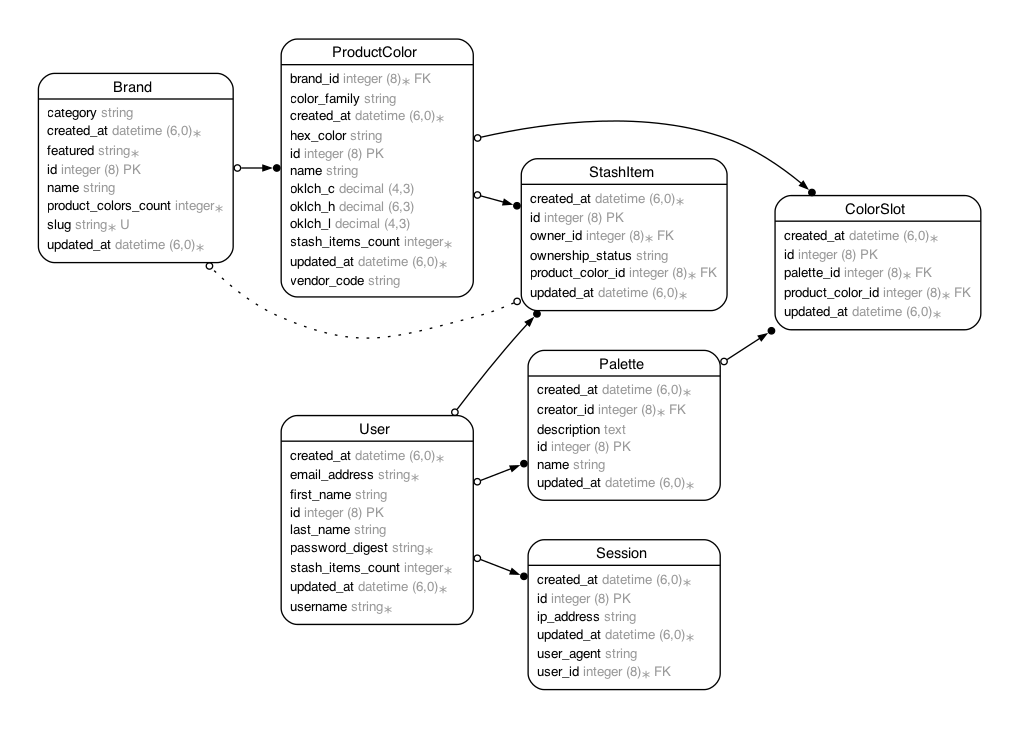
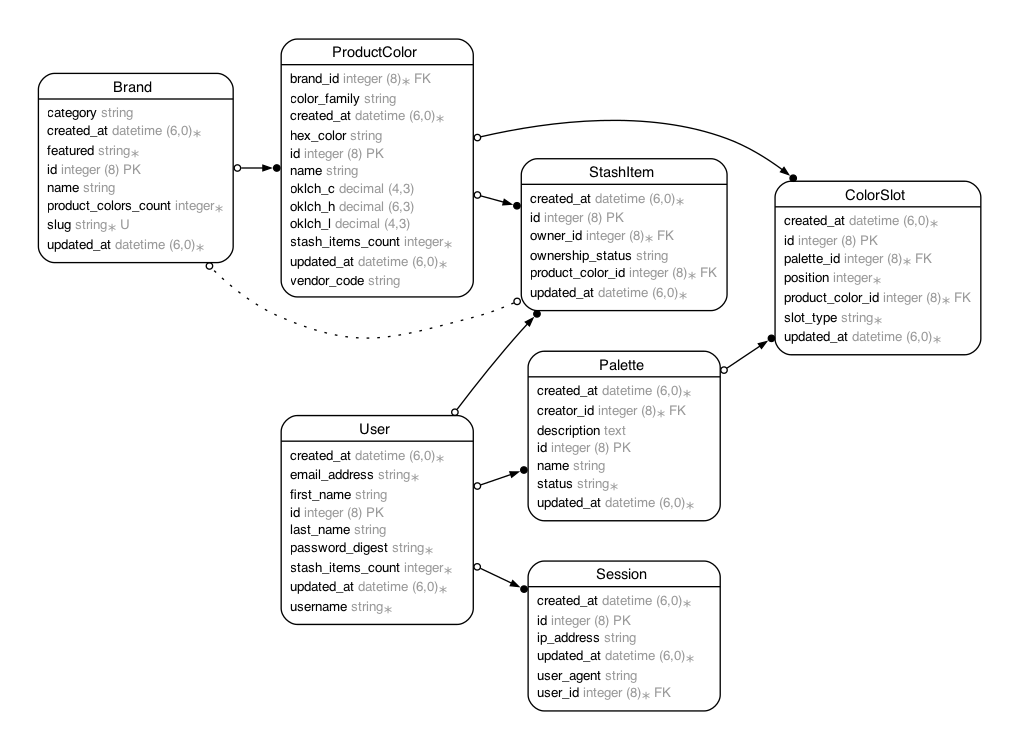
add status column to palettes and slot type and position columns to color_slots

diff --git a/app/models/color_slot.rb b/app/models/color_slot.rb
@@ -3,6 +3,8 @@
 # Table name: color_slots
 #
 #  id               :bigint           not null, primary key
+#  position         :integer          default(0), not null
+#  slot_type        :string           default("main"), not null
 #  created_at       :datetime         not null
 #  updated_at       :datetime         not null
 #  palette_id       :bigint           not null
@@ -10,8 +12,10 @@
 #
 # Indexes
 #
-#  index_color_slots_on_palette_id        (palette_id)
-#  index_color_slots_on_product_color_id  (product_color_id)
+#  index_color_slots_on_palette_id                             (palette_id)
+#  index_color_slots_on_palette_id_and_product_color_id        (palette_id,product_color_id) UNIQUE
+#  index_color_slots_on_palette_id_and_slot_type_and_position  (palette_id,slot_type,position)
+#  index_color_slots_on_product_color_id                       (product_color_id)
 #
 # Foreign Keys
 #
@@ -21,4 +25,56 @@
 class ColorSlot < ApplicationRecord
   belongs_to :palette
   belongs_to :product_color
+
+  SLOT_TYPES = %w[background main secondary accent].freeze
+
+  SLOT_CATEGORIES = {
+    "background" => "fabric",
+    "main" => "thread",
+    "secondary" => "thread",
+    "accent" => "thread"
+  }.freeze
+
+  validates :slot_type, inclusion: { in: SLOT_TYPES }
+  validates :position, presence: true
+  validates :product_color_id, uniqueness: { scope: :palette_id, message: "is already in this palette" }
+  validate :slot_type_limit_not_exceeded, on: :create
+  validate :product_color_matches_slot_category
+
+  scope :by_type, ->(type) { where(slot_type: type).order(:position) }
+  scope :background, -> { by_type("background") }
+  scope :main, -> { by_type("main") }
+  scope :secondary, -> { by_type("secondary") }
+  scope :accent, -> { by_type("accent") }
+
+  before_create :set_position
+
+  private
+
+  def set_position
+    max_position = palette.color_slots.where(slot_type: slot_type).maximum(:position) || -1
+    self.position = max_position + 1
+  end
+
+  def slot_type_limit_not_exceeded
+    return unless palette && slot_type
+
+    max = Palette::SLOT_LIMITS[slot_type][:max]
+    current_count = palette.slot_count_for(slot_type)
+
+    if current_count >= max
+      errors.add(:base, "##{slot_type.capitalize} section is full (maximum #{max})")
+    end
+  end
+
+  def product_color_matches_slot_category
+    return unless product_color && slot_type
+
+    expected_category = SLOT_CATEGORIES[slot_type]
+    actual_category = product_color.brand&.category
+
+    if actual_category != expected_category
+      errors.add(:product_color, "must be a #{expected_category} for the #{slot_type} slot")
+    end
+  end
 end

diff --git a/app/models/palette.rb b/app/models/palette.rb
@@ -5,9 +5,14 @@
 #  id          :bigint           not null, primary key
 #  description :text
 #  name        :string
+#  status      :string           default("draft"), not null
 #  created_at  :datetime         not null
 #  updated_at  :datetime         not null
 #  creator_id  :bigint           not null
+#
+# Indexes
+#
+#  index_palettes_on_status  (status)
 #
 # Foreign Keys
 #
@@ -15,4 +20,84 @@
 #
 class Palette < ApplicationRecord
   belongs_to :creator, class_name: "User"
+  has_many :color_slots, dependent: :destroy
+  has_many :product_colors, through: :color_slots
+
+  enum status: { draft: "draft", published: "published" }
+
+  validates :name, presence: true, if: :published?
+
+  SLOT_LIMITS = {
+    "background" => { min: 1, max: 1 },
+    "main" => { min: 1, max: 6 },
+    "secondary" => { min: 1, max: 4 },
+    "accent" => { min: 1, max: 2 }
+  }.freeze
+
+  # Methods for accessing colors by slot type
+  def background_slot
+    color_slots.background.first
+  end
+
+  def background_color
+    background_slot&.product_color
+  end
+
+  def main_slots
+    color_slots.main
+  end
+
+  def secondary_slots
+    color_slots.secondary
+  end
+
+  def accent_slots
+    color_slots.accent
+  end
+
+  # Validation helpers
+  def slot_count_for(slot_type)
+    color_slots.where(slot_type: slot_type).count
+  end
+
+  def slot_full?(slot_type)
+    slot_count_for(slot_type) >= SLOT_LIMITS[slot_type][:max]
+  end
+
+  def slot_minimum_met?(slot_type)
+    slot_count_for(slot_type) >= SLOT_LIMITS[slot_type][:min]
+  end
+
+  def all_minimums_met?
+    SLOT_LIMITS.keys.all? { |slot_type| slot_minimum_met?(slot_type) }
+  end
+
+  def can_publish?
+    name.present? && all_minimums_met?
+  end
+
+  def missing_requirements
+    missing = []
+    missing << "Palette name is required" if name.blank?
+
+    SLOT_LIMITS.each do |slot_type, limits|
+      current = slot_count_for(slot_type)
+      if current < limits[:min]
+        needed = limits[:min] - current
+        missing << "#{slot_type.capitalize} needs #{needed} more color#{'s' if needed > 1}"
+      end
+    end
+
+    missing
+  end
+
+  # Publishing method
+  def publish!
+    if can_publish?
+      update!(status: :published)
+      true
+    else
+      false
+    end
+  end
 end

diff --git a/db/cable_schema.rb b/db/cable_schema.rb
@@ -10,7 +10,7 @@
 #
 # It's strongly recommended that you check this file into your version control system.
 
-ActiveRecord::Schema[8.0].define(version: 2025_12_05_231743) do
+ActiveRecord::Schema[8.0].define(version: 2025_12_06_190135) do
   # These are extensions that must be enabled in order to support this database
   enable_extension "pg_catalog.plpgsql"
 
@@ -32,6 +32,10 @@ ActiveRecord::Schema[8.0].define(version: 2025_12_05_231743) do
     t.bigint "product_color_id", null: false
     t.datetime "created_at", null: false
     t.datetime "updated_at", null: false
+    t.string "slot_type", default: "main", null: false
+    t.integer "position", default: 0, null: false
+    t.index ["palette_id", "product_color_id"], name: "index_color_slots_on_palette_id_and_product_color_id", unique: true
+    t.index ["palette_id", "slot_type", "position"], name: "index_color_slots_on_palette_id_and_slot_type_and_position"
     t.index ["palette_id"], name: "index_color_slots_on_palette_id"
     t.index ["product_color_id"], name: "index_color_slots_on_product_color_id"
   end
@@ -42,6 +46,8 @@ ActiveRecord::Schema[8.0].define(version: 2025_12_05_231743) do
     t.text "description"
     t.datetime "created_at", null: false
     t.datetime "updated_at", null: false
+    t.string "status", default: "draft", null: false
+    t.index ["status"], name: "index_palettes_on_status"
   end
 
   create_table "product_colors", force: :cascade do |t|

diff --git a/db/cache_schema.rb b/db/cache_schema.rb
@@ -10,7 +10,7 @@
 #
 # It's strongly recommended that you check this file into your version control system.
 
-ActiveRecord::Schema[8.0].define(version: 2025_12_05_231743) do
+ActiveRecord::Schema[8.0].define(version: 2025_12_06_190135) do
   # These are extensions that must be enabled in order to support this database
   enable_extension "pg_catalog.plpgsql"
 
@@ -32,6 +32,10 @@ ActiveRecord::Schema[8.0].define(version: 2025_12_05_231743) do
     t.bigint "product_color_id", null: false
     t.datetime "created_at", null: false
     t.datetime "updated_at", null: false
+    t.string "slot_type", default: "main", null: false
+    t.integer "position", default: 0, null: false
+    t.index ["palette_id", "product_color_id"], name: "index_color_slots_on_palette_id_and_product_color_id", unique: true
+    t.index ["palette_id", "slot_type", "position"], name: "index_color_slots_on_palette_id_and_slot_type_and_position"
     t.index ["palette_id"], name: "index_color_slots_on_palette_id"
     t.index ["product_color_id"], name: "index_color_slots_on_product_color_id"
   end
@@ -42,6 +46,8 @@ ActiveRecord::Schema[8.0].define(version: 2025_12_05_231743) do
     t.text "description"
     t.datetime "created_at", null: false
     t.datetime "updated_at", null: false
+    t.string "status", default: "draft", null: false
+    t.index ["status"], name: "index_palettes_on_status"
   end
 
   create_table "product_colors", force: :cascade do |t|

diff --git a/db/queue_schema.rb b/db/queue_schema.rb
@@ -10,7 +10,7 @@
 #
 # It's strongly recommended that you check this file into your version control system.
 
-ActiveRecord::Schema[8.0].define(version: 2025_12_05_231743) do
+ActiveRecord::Schema[8.0].define(version: 2025_12_06_190135) do
   # These are extensions that must be enabled in order to support this database
   enable_extension "pg_catalog.plpgsql"
 
@@ -32,6 +32,10 @@ ActiveRecord::Schema[8.0].define(version: 2025_12_05_231743) do
     t.bigint "product_color_id", null: false
     t.datetime "created_at", null: false
     t.datetime "updated_at", null: false
+    t.string "slot_type", default: "main", null: false
+    t.integer "position", default: 0, null: false
+    t.index ["palette_id", "product_color_id"], name: "index_color_slots_on_palette_id_and_product_color_id", unique: true
+    t.index ["palette_id", "slot_type", "position"], name: "index_color_slots_on_palette_id_and_slot_type_and_position"
     t.index ["palette_id"], name: "index_color_slots_on_palette_id"
     t.index ["product_color_id"], name: "index_color_slots_on_product_color_id"
   end
@@ -42,6 +46,8 @@ ActiveRecord::Schema[8.0].define(version: 2025_12_05_231743) do
     t.text "description"
     t.datetime "created_at", null: false
     t.datetime "updated_at", null: false
+    t.string "status", default: "draft", null: false
+    t.index ["status"], name: "index_palettes_on_status"
   end
 
   create_table "product_colors", force: :cascade do |t|

diff --git a/db/schema.rb b/db/schema.rb
@@ -10,7 +10,7 @@
 #
 # It's strongly recommended that you check this file into your version control system.
 
-ActiveRecord::Schema[8.0].define(version: 2025_12_05_231743) do
+ActiveRecord::Schema[8.0].define(version: 2025_12_06_190135) do
   # These are extensions that must be enabled in order to support this database
   enable_extension "pg_catalog.plpgsql"
 
@@ -32,6 +32,10 @@ ActiveRecord::Schema[8.0].define(version: 2025_12_05_231743) do
     t.bigint "product_color_id", null: false
     t.datetime "created_at", null: false
     t.datetime "updated_at", null: false
+    t.string "slot_type", default: "main", null: false
+    t.integer "position", default: 0, null: false
+    t.index ["palette_id", "product_color_id"], name: "index_color_slots_on_palette_id_and_product_color_id", unique: true
+    t.index ["palette_id", "slot_type", "position"], name: "index_color_slots_on_palette_id_and_slot_type_and_position"
     t.index ["palette_id"], name: "index_color_slots_on_palette_id"
     t.index ["product_color_id"], name: "index_color_slots_on_product_color_id"
   end
@@ -42,6 +46,8 @@ ActiveRecord::Schema[8.0].define(version: 2025_12_05_231743) do
     t.text "description"
     t.datetime "created_at", null: false
     t.datetime "updated_at", null: false
+    t.string "status", default: "draft", null: false
+    t.index ["status"], name: "index_palettes_on_status"
   end
 
   create_table "product_colors", force: :cascade do |t|

diff --git a/db/migrate/20251206190135_add_slot_type_and_position_columns_to_color_slots.rb b/db/migrate/20251206190135_add_slot_type_and_position_columns_to_color_slots.rb
@@ -1,0 +1,9 @@
+class AddSlotTypeAndPositionColumnsToColorSlots < ActiveRecord::Migration[8.0]
+  def change
+    add_column :color_slots, :slot_type, :string, null: false, default: "main"
+    add_column :color_slots, :position, :integer, null: false, default: 0
+
+    add_index :color_slots, [ :palette_id, :slot_type, :position ]
+    add_index :color_slots, [ :palette_id, :product_color_id ], unique: true
+  end
+end

diff --git a/app/models/user.rb b/app/models/user.rb
@@ -21,6 +21,7 @@ class User < ApplicationRecord
   has_secure_password
   has_many :sessions, dependent: :destroy
   has_many :stash_items, foreign_key: "owner_id", dependent: :destroy
+  has_many :palettes, foreign_key: "creator_id", dependent: :destroy
 
   normalizes :email_address, with: ->(e) { e.strip.downcase }
 end

diff --git a/db/migrate/20251206185755_add_status_column_to_palettes.rb b/db/migrate/20251206185755_add_status_column_to_palettes.rb
@@ -1,0 +1,6 @@
+class AddStatusColumnToPalettes < ActiveRecord::Migration[8.0]
+  def change
+    add_column :palettes, :status, :string, null: false, default: "draft"
+    add_index :palettes, :status
+  end
+end
